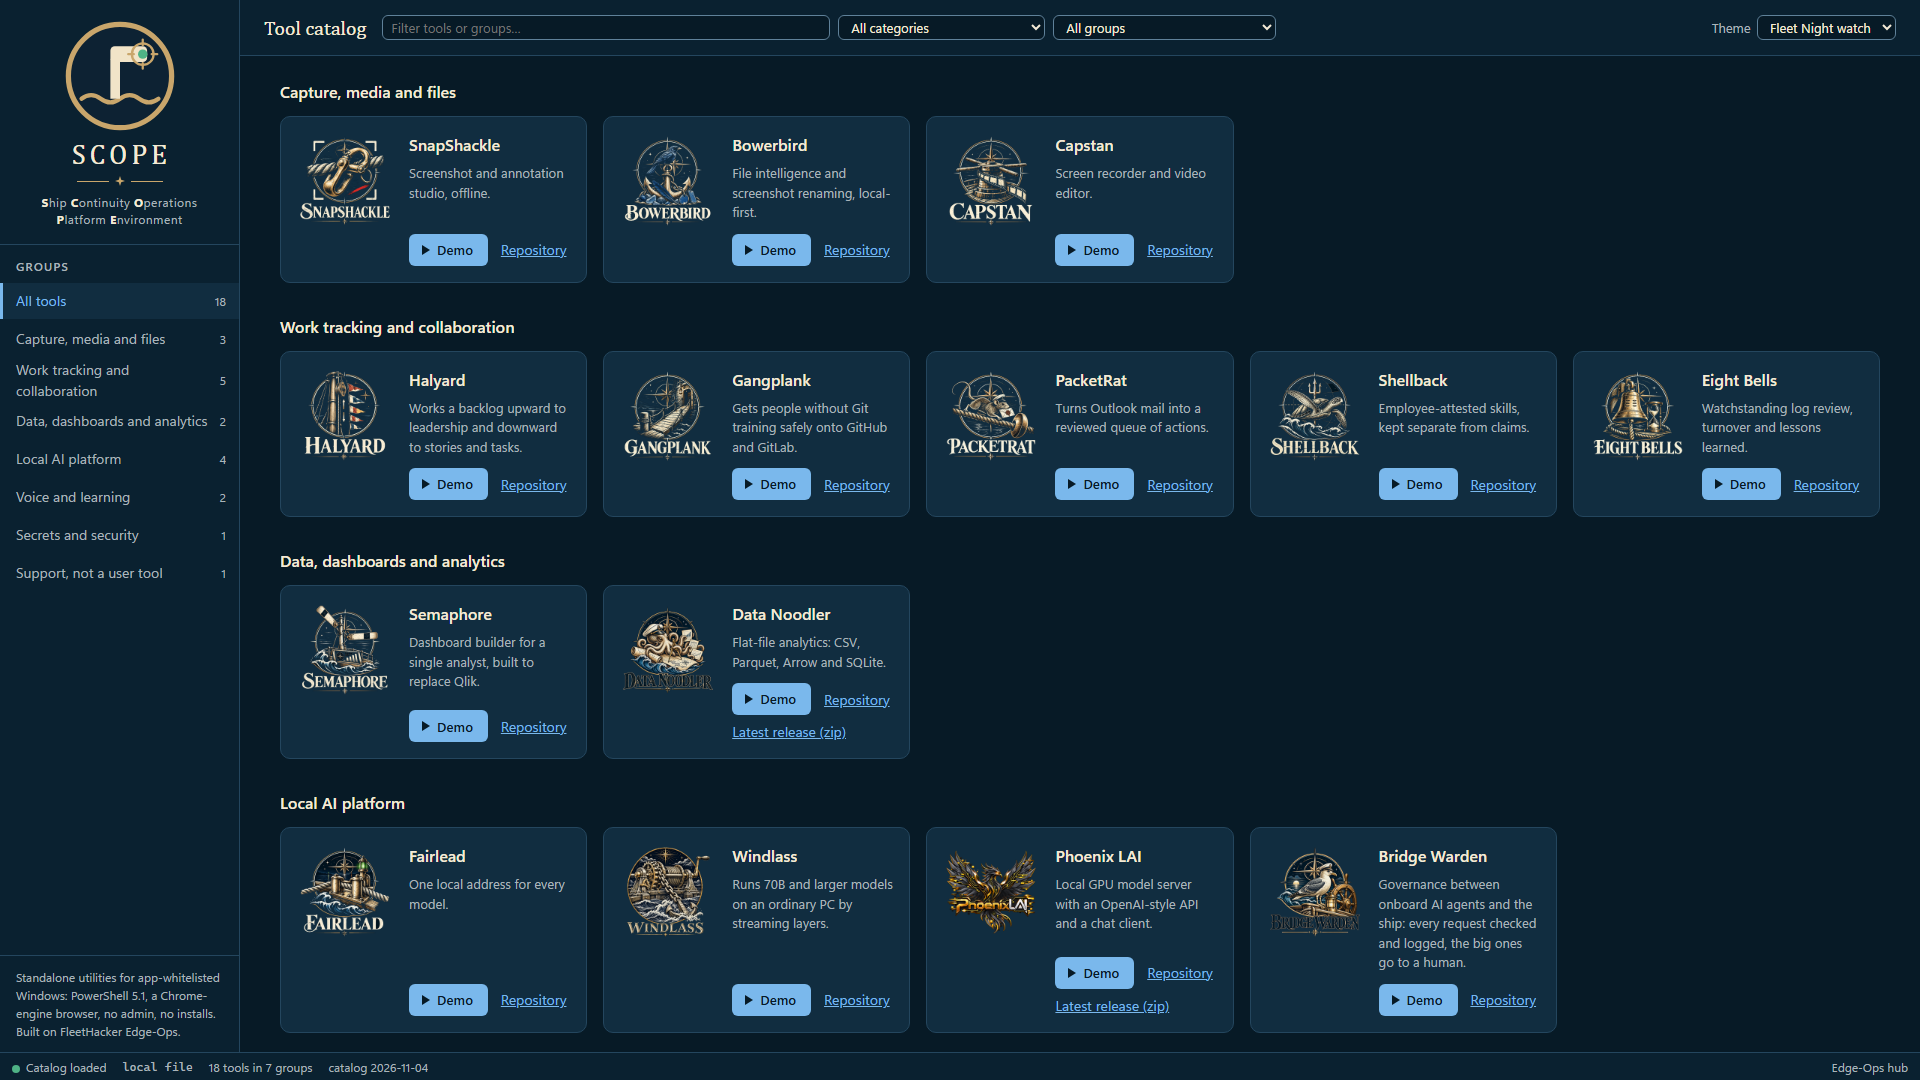
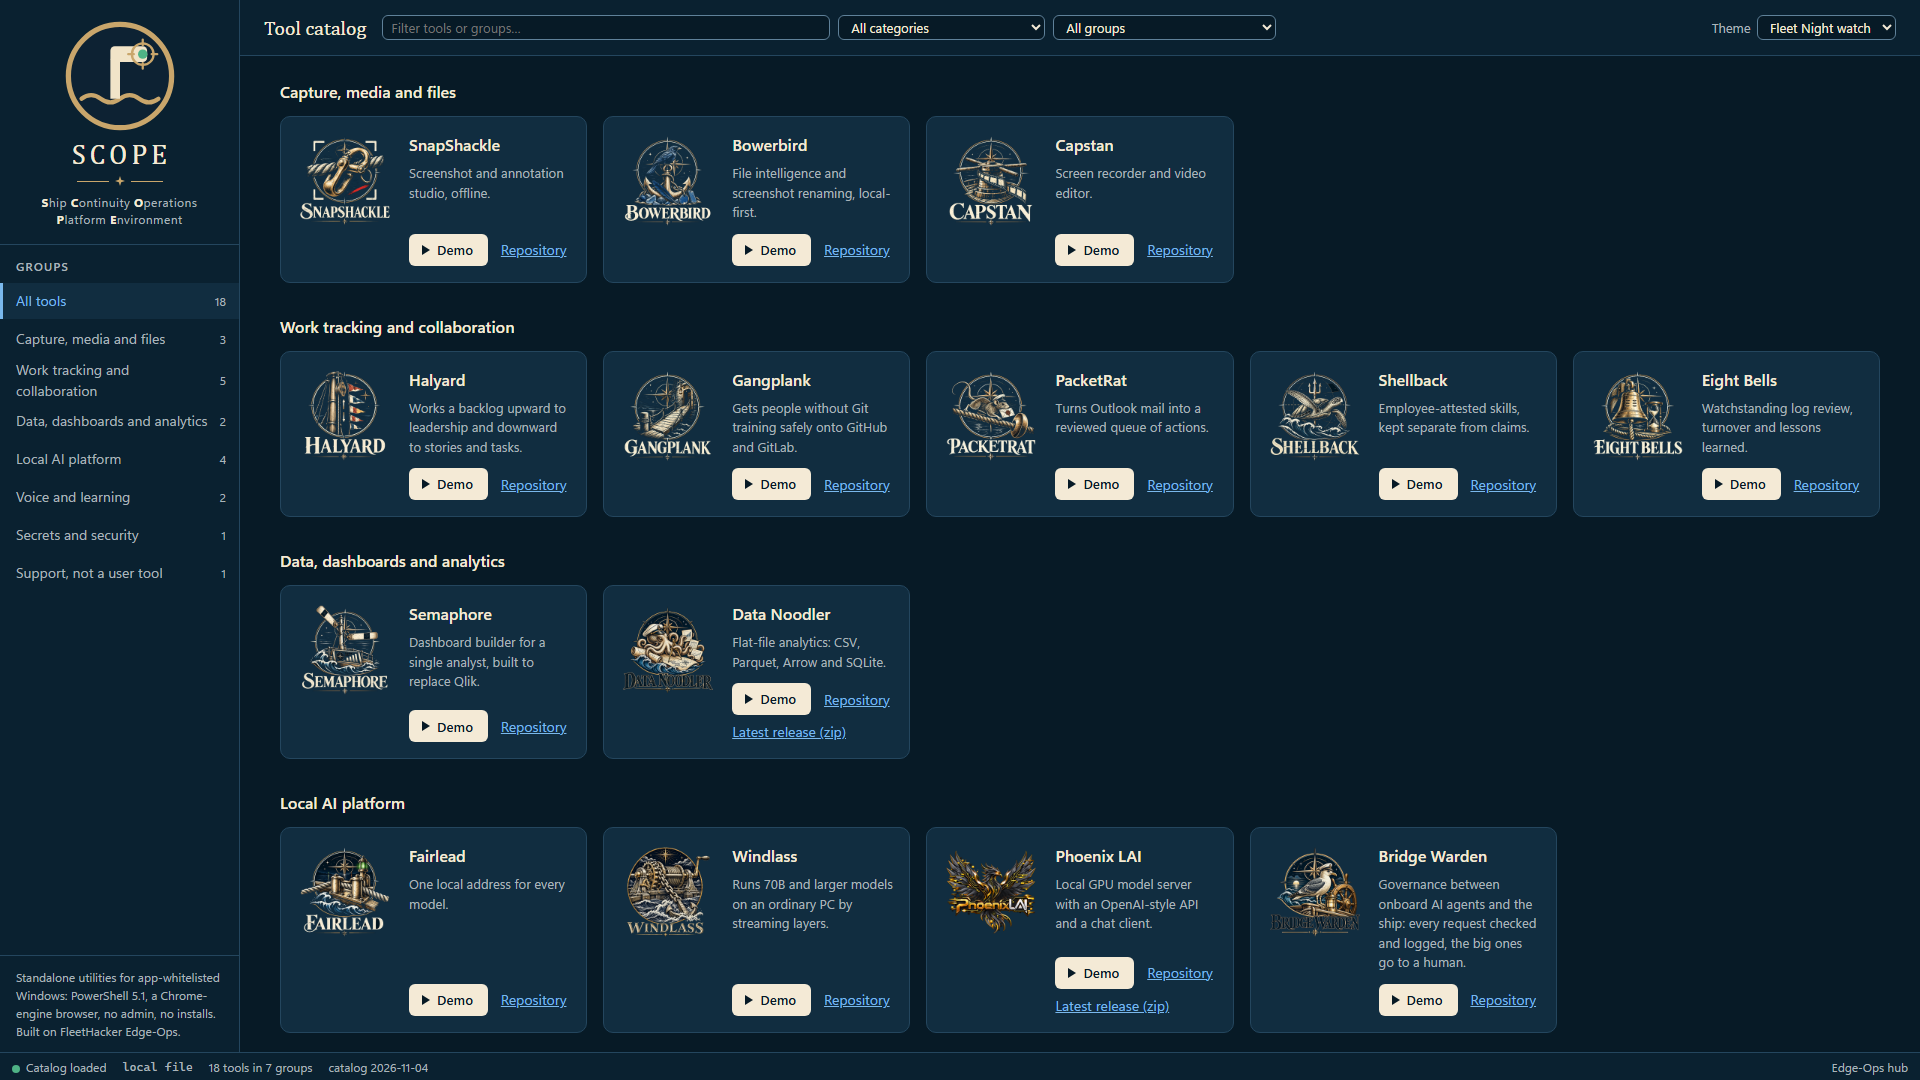
hub: SCOPE Demo button filled with the text colour (ivory on Night watch), navy lettering

diff --git a/assets/brand-scope.css b/assets/brand-scope.css
@@ -77,9 +77,10 @@
 [data-brand=scope] .badge.red{color:var(--err);border-color:currentColor;background:color-mix(in srgb,var(--err) 14%,transparent)}
 [data-brand=scope] .badges{gap:6px}
 [data-brand=scope] .links a{color:var(--scope-accent)}
-/* Demo: the card's one primary action, in the Fleet primary button style (fleet.css .fl-btn--primary: accent fill, ink text,
-   32 px, 6 px radius) with a play glyph, as PacketRat's "Analyze inbox" pairs an icon with its label. */
-[data-brand=scope] .btn.demo{height:32px;padding:0 14px 0 12px;border-radius:6px;border:1px solid transparent;background:var(--scope-accent);color:var(--scope-accent-ink);font-size:13px;font-weight:600;font-family:inherit;letter-spacing:.01em;gap:7px}
+/* Demo: the card's one primary action. Fleet primary button shape (32 px, 6 px radius, icon plus label) filled with the
+   theme's text colour (ivory on Night watch, navy on Chart room) and lettered in the field colour, so it reads on every card
+   without leaning on the accent. */
+[data-brand=scope] .btn.demo{height:32px;padding:0 14px 0 12px;border-radius:6px;border:1px solid transparent;background:var(--text);color:var(--bg);font-size:13px;font-weight:600;font-family:inherit;letter-spacing:.01em;gap:7px}
 [data-brand=scope] .btn.demo::before{content:"";width:0;height:0;border-style:solid;border-width:5px 0 5px 8px;border-color:transparent transparent transparent currentColor}
 [data-brand=scope] .btn.demo:hover{filter:brightness(1.1)}
 [data-brand=scope] .btn.demo:focus-visible{outline:2px solid var(--scope-brass);outline-offset:2px}
